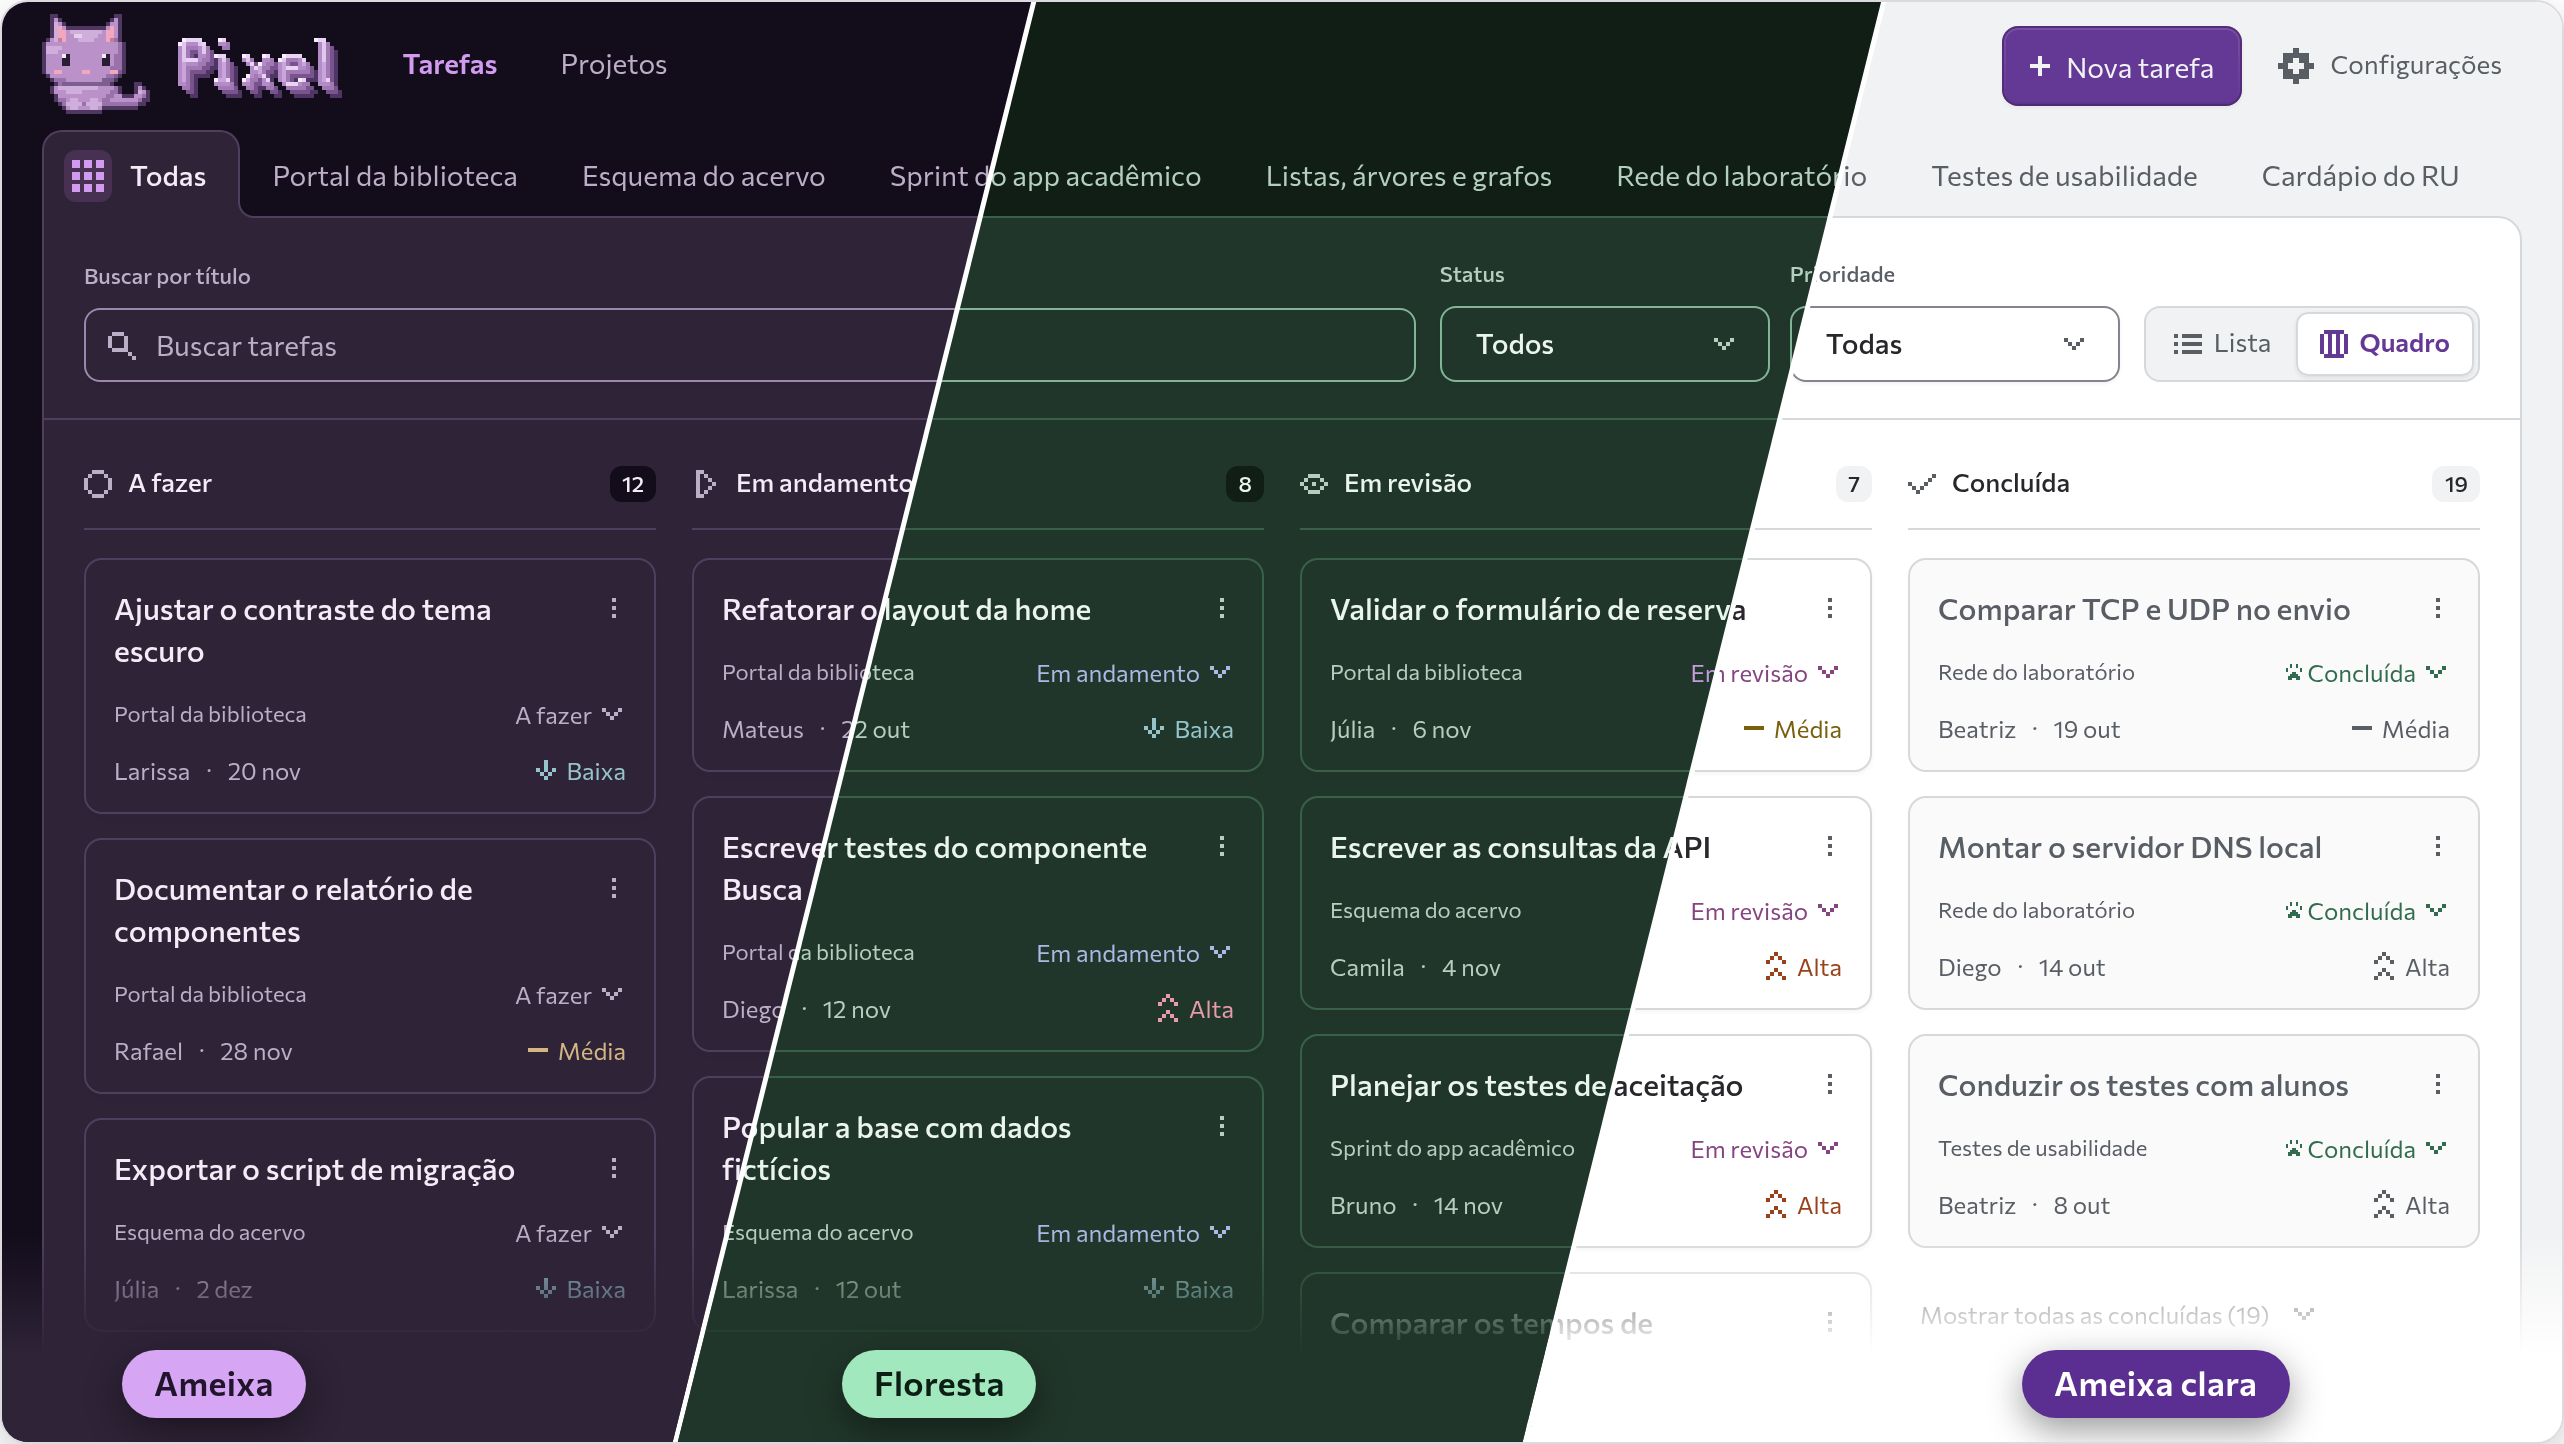
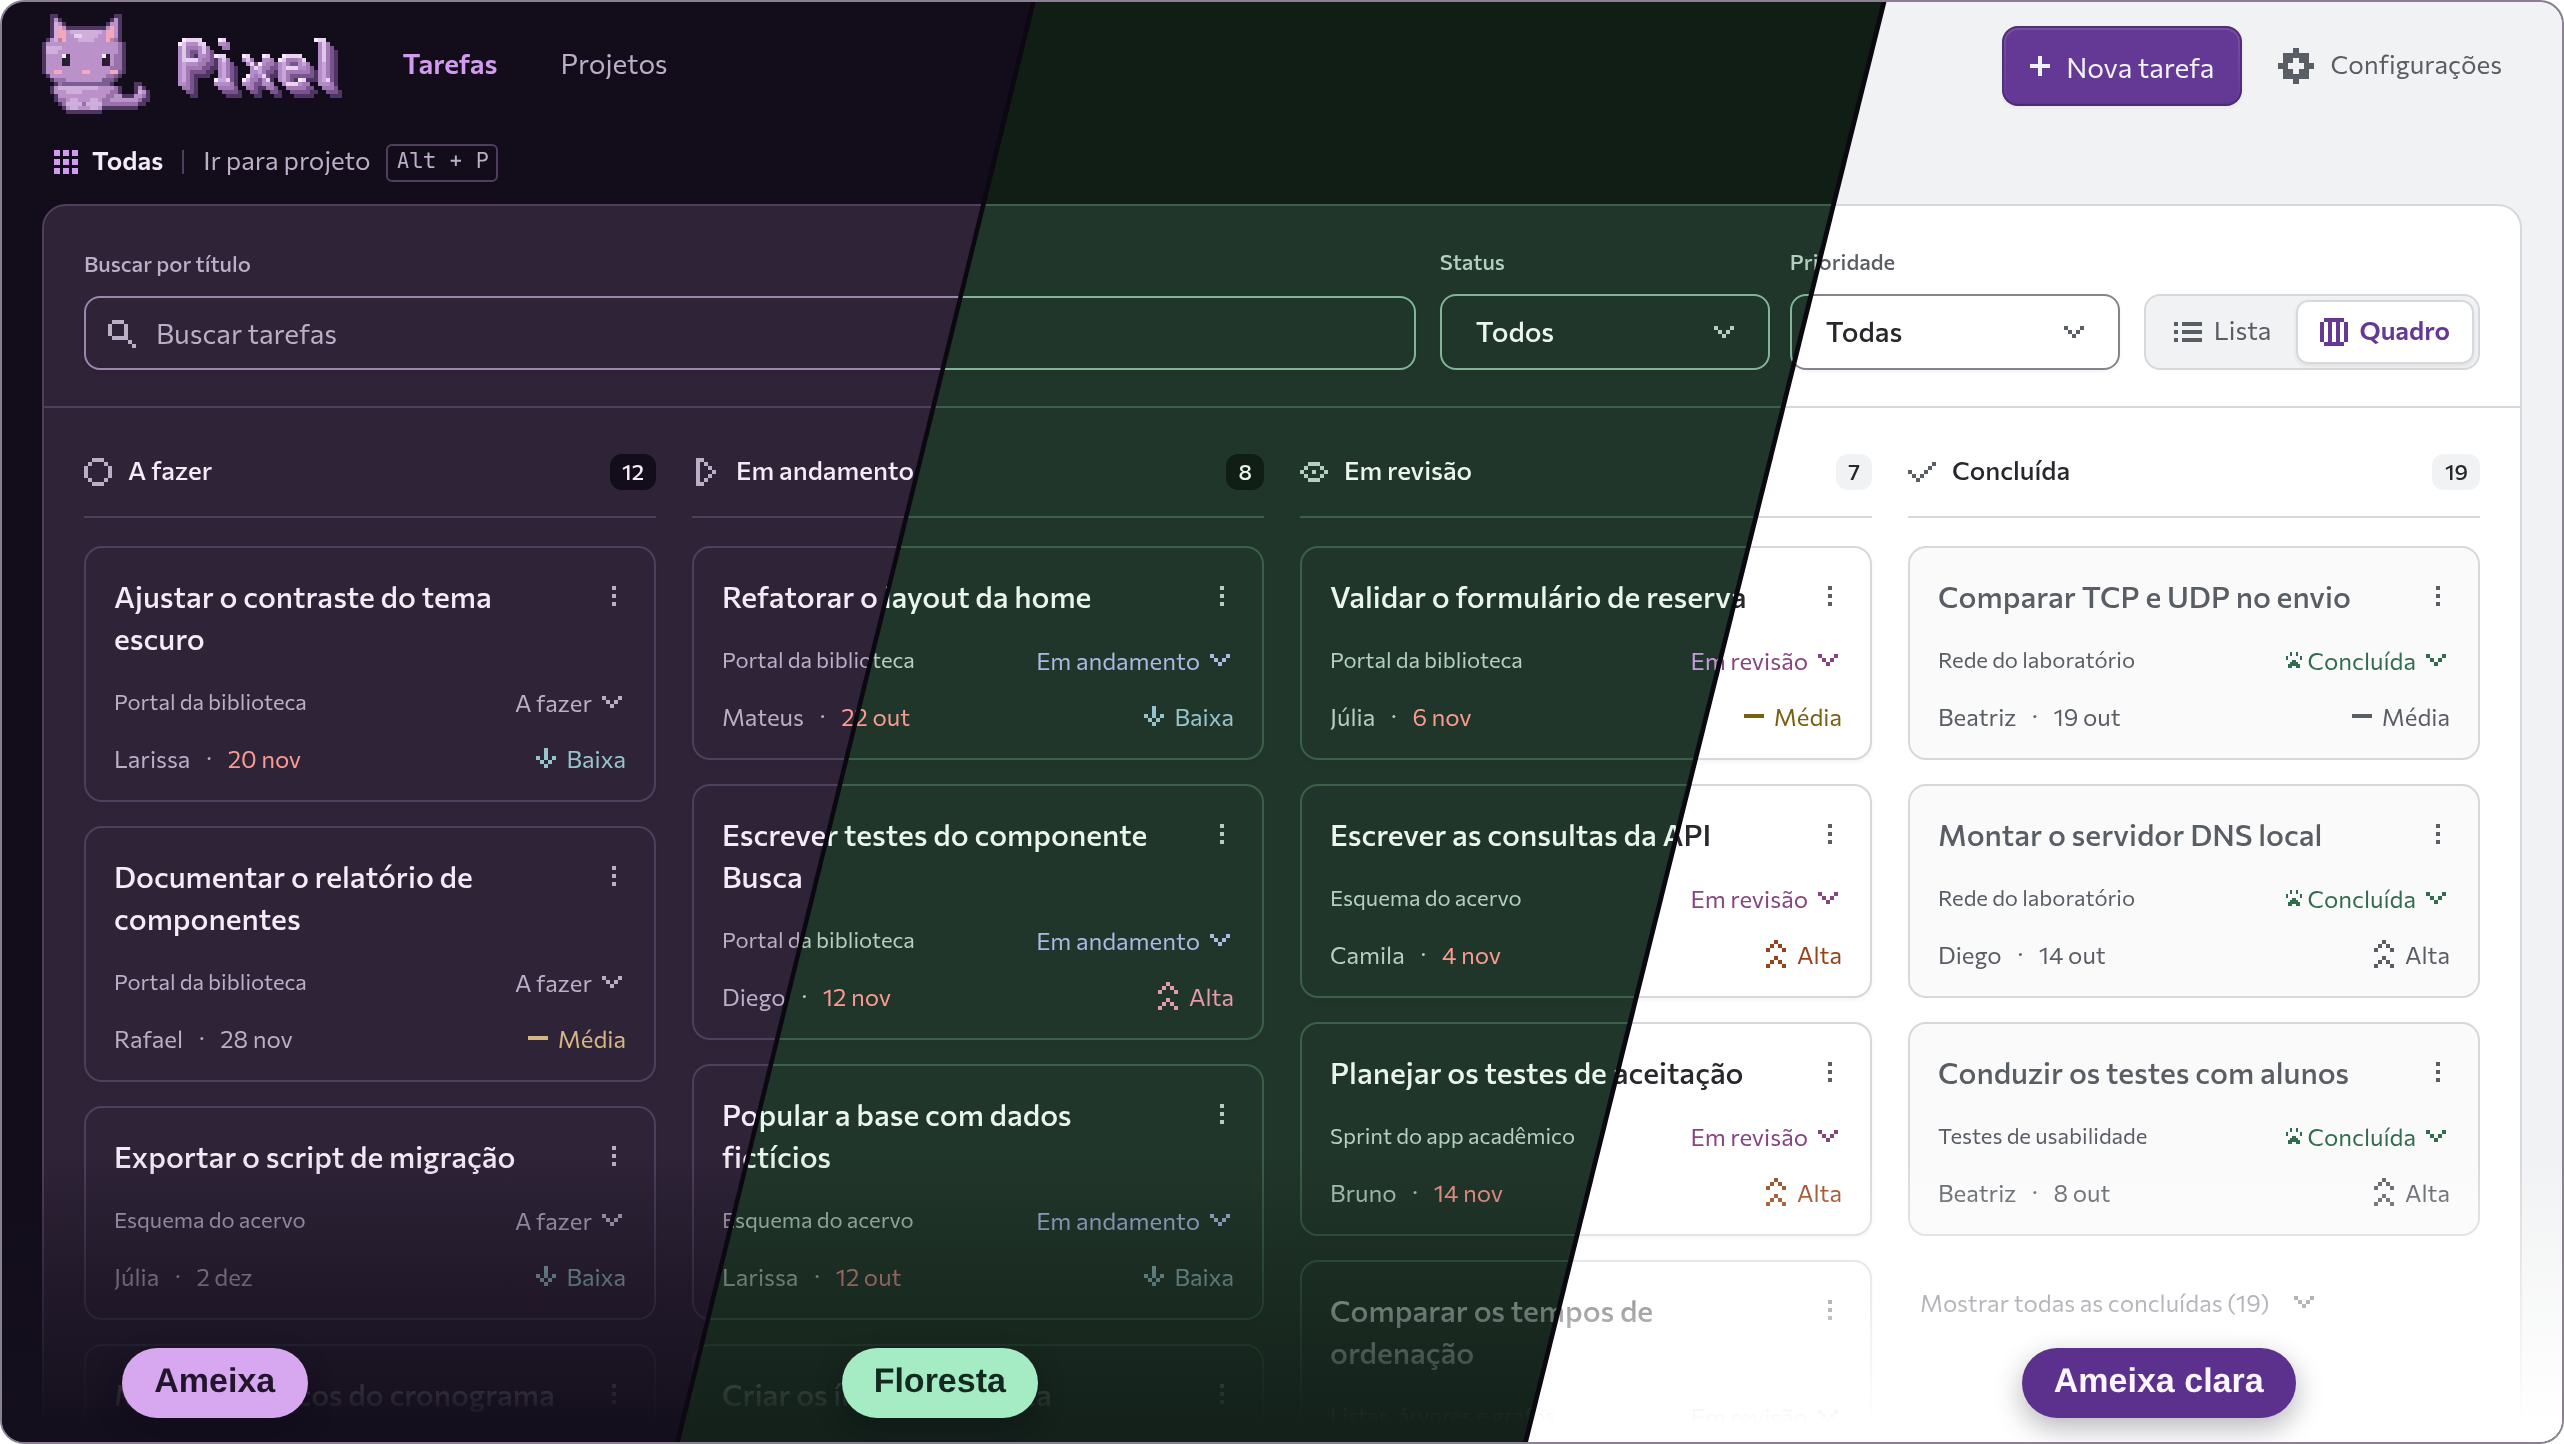
Mostra o Comando rápido no README

diff --git a/README.md b/README.md
@@ -13,13 +13,14 @@
 
 <p align="center">
   <a href="https://pixel-dfe-project.up.railway.app/">
-    <img src="docs/images/visao-geral.png" width="1000" alt="Pixel no computador, com o quadro de tarefas, e no celular, com os detalhes de uma tarefa">
+    <img src="docs/images/visao-geral.png" width="1000" alt="Quadro de tarefas do Pixel no computador, com a barra de projetos e os filtros">
   </a>
 </p>
 
 ## Do projeto à próxima tarefa
 
 - **Projetos organizados:** acompanhe disciplinas, tarefas concluídas e o próximo prazo.
+- **Comando rápido** para buscar projetos pelo nome em **Ir para projeto** ou **Trocar projeto**. Use **Alt + P** no Windows e no Linux ou **⌥ P** no Mac.
 - **Lista ou kanban:** escolha sua visão e encontre tarefas com busca e filtros.
 - **Tudo à mão:** crie, edite e exclua tarefas; ajuste status, prioridade e responsável.
 - **Sem perder o contexto:** abra detalhes e formulários em fichas sobre a página.
@@ -74,6 +75,7 @@ O gatinho acompanha os estados da aplicação com animações em pixel art, do c
 </p>
 
 Navegação por teclado, foco visível e respeito à preferência por movimento reduzido.
+No computador, use **Tab** para chegar ao ícone no cabeçalho da ficha e as **setas** para movê-la.
 
 <sub>Desenvolvido com React e TypeScript.</sub>
 
